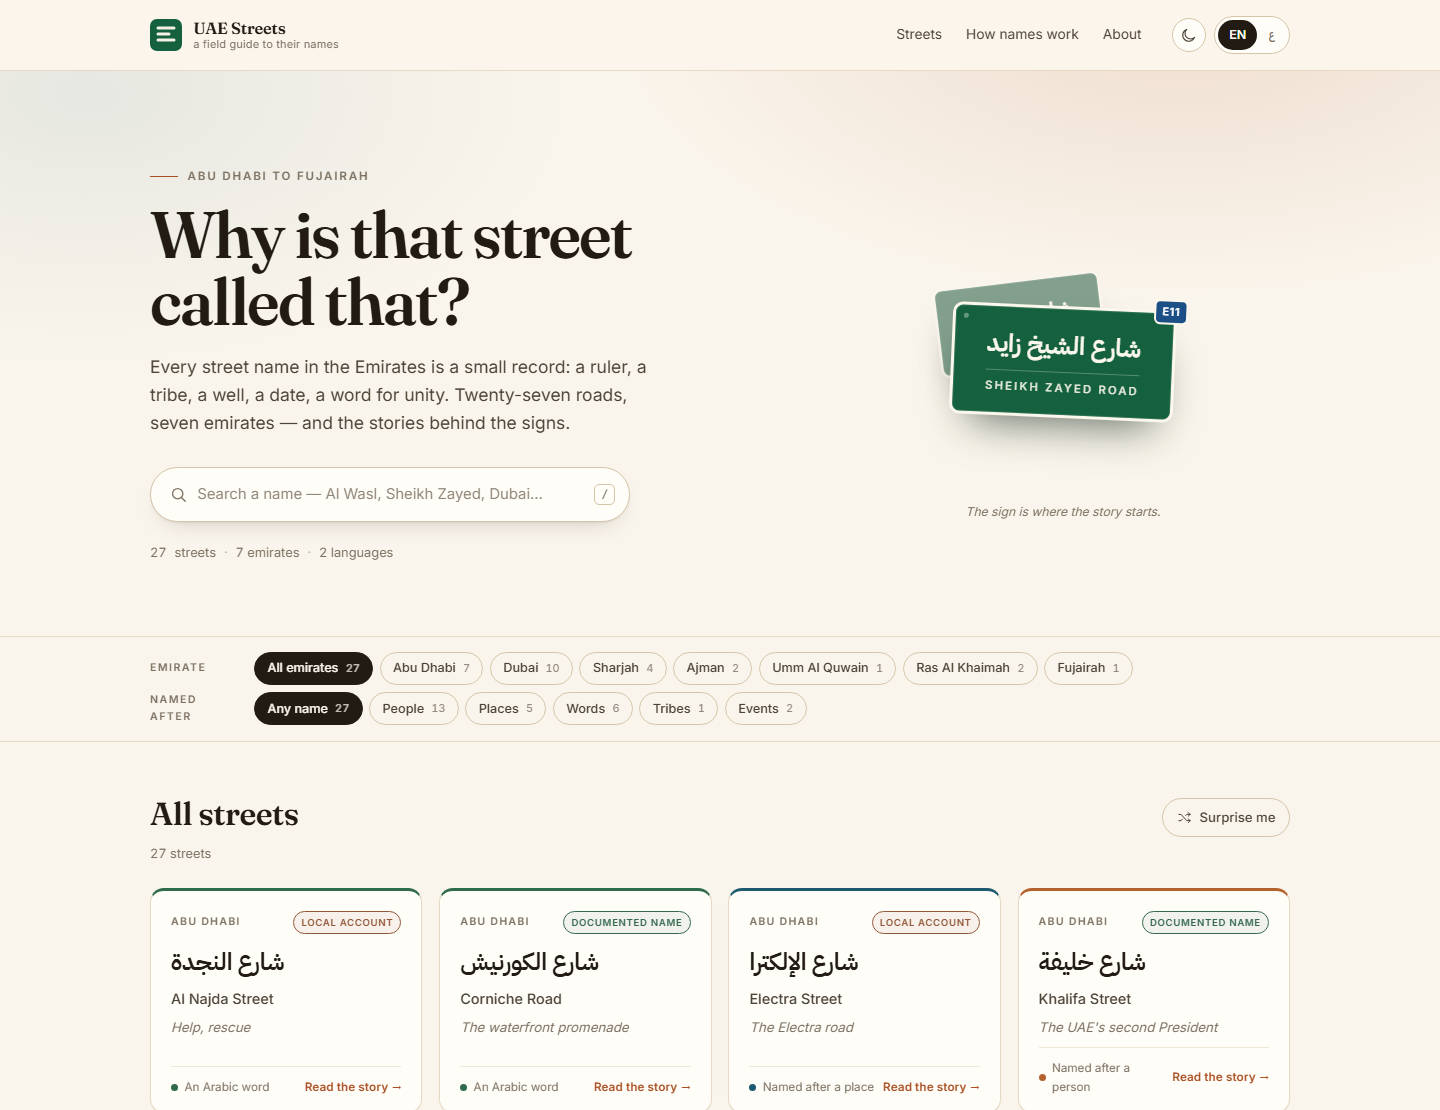
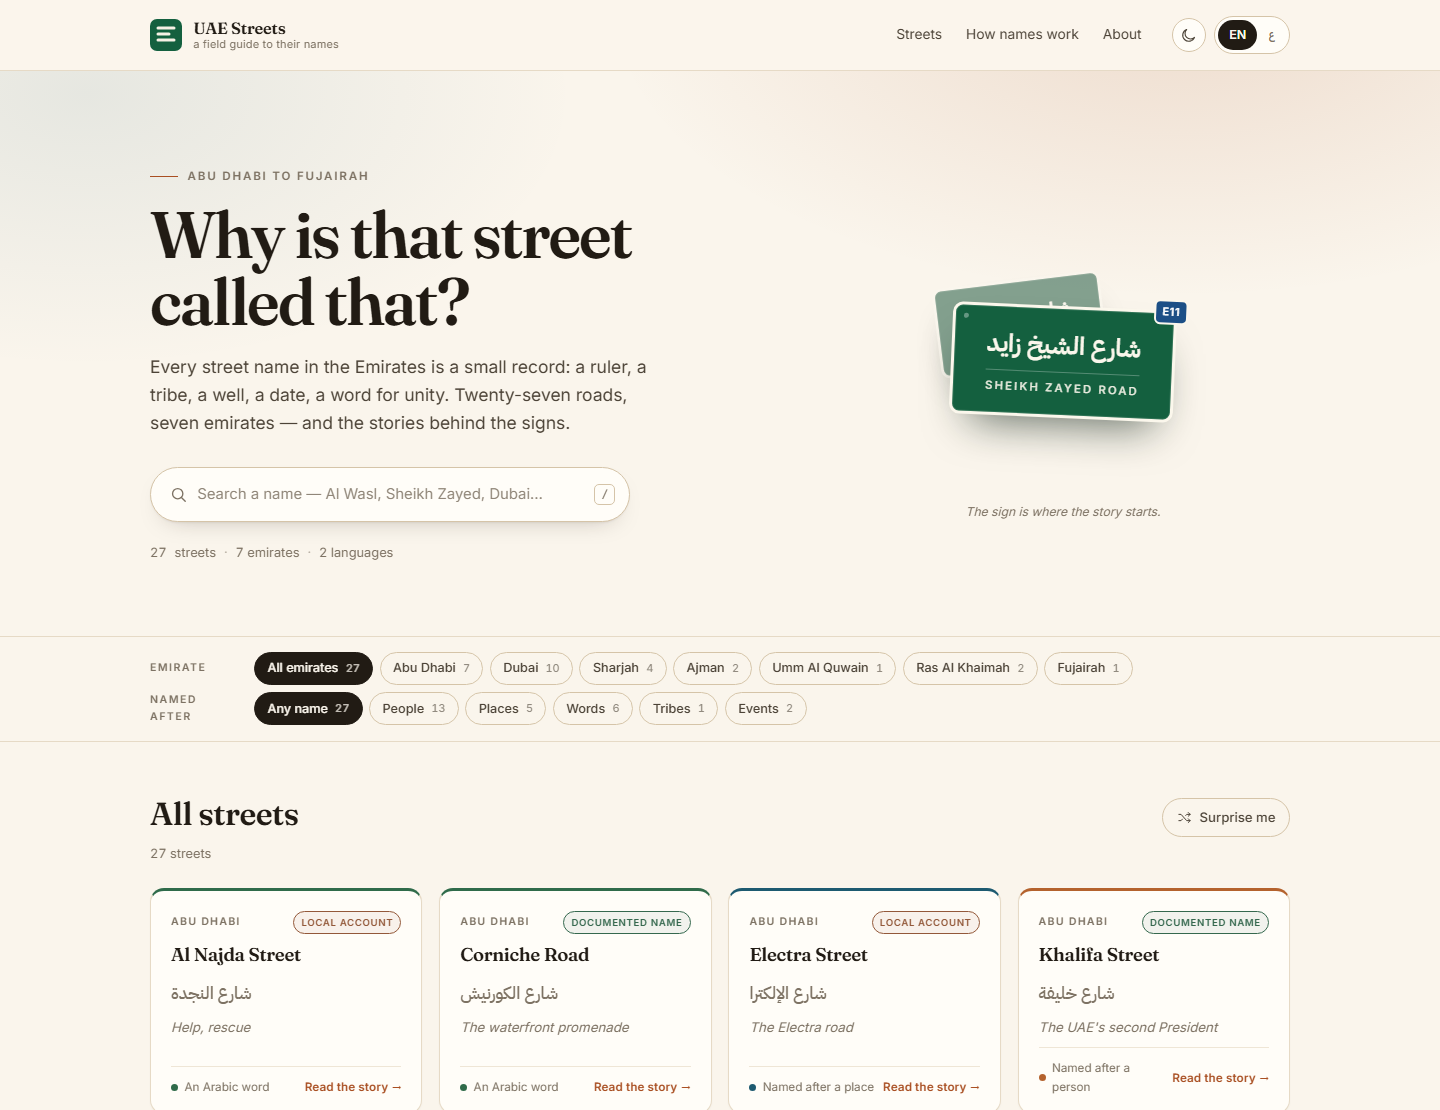
Type hierarchy: English name leads in English mode, Arabic in Arabic mode

diff --git a/assets/css/styles.css b/assets/css/styles.css
@@ -377,12 +377,14 @@ code { font-family: var(--font-mono); font-size: .86em; background: var(--paper-
 .badge--documented { color: var(--palm); background: color-mix(in srgb, var(--palm) 7%, transparent); }
 .badge--local { color: var(--clay); background: color-mix(in srgb, var(--clay) 7%, transparent); }
 
+/* English is the primary line in the default (LTR) layout; Arabic is the
+   supporting line. The two swap roles in Arabic mode — see the ar block. */
+.card__en { font-size: 1.16rem; font-weight: 600; color: var(--ink); line-height: 1.3; }
 .card__ar {
-  font-family: var(--font-ar); font-size: 1.5rem; font-weight: 600;
-  line-height: 1.45; color: var(--ink); direction: rtl; text-align: left;
-  margin-block-start: .15rem;
+  font-family: var(--font-ar); font-size: 1.06rem; font-weight: 500;
+  line-height: 1.65; color: var(--ink-3); direction: rtl; text-align: left;
+  margin-block-start: .3rem;
 }
-.card__en { font-size: .9rem; font-weight: 500; color: var(--ink-2); line-height: 1.35; }
 .card__meaning {
   font-size: .83rem; font-style: italic; color: var(--ink-3);
   display: -webkit-box; -webkit-line-clamp: 2; -webkit-box-orient: vertical; overflow: hidden;
@@ -544,12 +546,13 @@ html[dir="rtl"] .eg-en { text-align: right; }
   font-size: .68rem; font-weight: 600; letter-spacing: .14em; text-transform: uppercase;
   color: var(--ink-3); display: flex; align-items: center; gap: .6rem;
 }
+/* Same hierarchy rule as the cards: English leads in LTR, Arabic leads in RTL. */
+.sheet__en { font-family: var(--font-display); font-size: clamp(1.5rem, 3.4vw, 1.95rem); color: var(--ink); line-height: 1.15; }
 .sheet__ar {
-  font-family: var(--font-ar); direction: rtl; text-align: start;
-  font-size: clamp(1.7rem, 4vw, 2.35rem); font-weight: 600; line-height: 1.45;
-  margin-block: .55rem .2rem;
+  font-family: var(--font-ar); direction: rtl; text-align: left;
+  font-size: 1.2rem; font-weight: 500; line-height: 1.7;
+  color: var(--ink-2); margin-block: .45rem .1rem;
 }
-.sheet__en { font-family: var(--font-display); font-size: clamp(1.1rem, 2.2vw, 1.35rem); color: var(--ink-2); line-height: 1.3; }
 .sheet__translit { font-size: .82rem; color: var(--ink-3); font-style: italic; margin-block-start: .35rem; }
 
 .sheet__tags { display: flex; gap: .4rem; flex-wrap: wrap; margin-block-start: 1rem; }
@@ -616,6 +619,24 @@ html[lang="ar"] .search input { font-size: .95rem; }
 html[lang="ar"] .patterns li h3 { font-size: 1.28rem; }
 html[lang="ar"] .footer p { max-width: 40ch; }
 html[lang="ar"] .sheet__story p { line-height: 2; }
+
+/* In Arabic mode the hierarchy flips back: the Arabic name leads, the Latin
+   name becomes the supporting line. */
+html[lang="ar"] .card__ar {
+  font-size: 1.5rem; font-weight: 600; color: var(--ink);
+  line-height: 1.45; margin-block-start: 0;
+}
+html[lang="ar"] .card__en {
+  font-size: .88rem; font-weight: 500; color: var(--ink-3); line-height: 1.35;
+}
+html[lang="ar"] .sheet__ar {
+  text-align: start; font-size: clamp(1.7rem, 4vw, 2.35rem);
+  font-weight: 600; color: var(--ink); line-height: 1.45;
+  margin-block: .55rem .2rem;
+}
+html[lang="ar"] .sheet__en {
+  font-size: clamp(1.1rem, 2.2vw, 1.35rem); color: var(--ink-2); line-height: 1.3;
+}
 
 /* Latin strings inside the Arabic layout: keep the internal order LTR
    (so "2 December Street" never loses its number) but align to the same

diff --git a/assets/js/app.js b/assets/js/app.js
@@ -221,16 +221,21 @@
       var cat = categoryOf(s.category);
       var meaning = s.meaning ? s.meaning[state.lang] : "";
       var originLabel = s.origin === "local" ? T.originLocal : T.originDocumented;
+      // The name in the reader's own language is the heading and comes first.
+      var nameBlock = state.lang === "ar"
+        ? '<h3 class="card__ar" lang="ar" dir="rtl">' + esc(s.ar) + "</h3>" +
+          '<p class="card__en" dir="ltr">' + esc(s.en) + "</p>"
+        : '<h3 class="card__en" dir="ltr">' + esc(s.en) + "</h3>" +
+          '<p class="card__ar" lang="ar" dir="rtl">' + esc(s.ar) + "</p>";
       return (
         '<a class="card" href="#street=' + esc(s.id) + '" data-id="' + esc(s.id) + '" ' +
           'style="--cat:' + cat.color + ';--i:' + Math.min(i, 14) + '" ' +
-          'aria-label="' + esc(s.en + " — " + em[state.lang]) + '">' +
+          'aria-label="' + esc((state.lang === "ar" ? s.ar : s.en) + " — " + em[state.lang]) + '">' +
           '<div class="card__top">' +
             '<span class="card__emirate">' + esc(em[state.lang]) + "</span>" +
             '<span class="badge badge--' + (s.origin === "local" ? "local" : "documented") + '">' + esc(originLabel) + "</span>" +
           "</div>" +
-          '<h3 class="card__ar" lang="ar" dir="rtl">' + esc(s.ar) + "</h3>" +
-          '<p class="card__en" dir="ltr">' + esc(s.en) + "</p>" +
+          nameBlock +
           (meaning ? '<p class="card__meaning">' + esc(meaning) + "</p>" : "") +
           '<div class="card__foot">' +
             '<span class="card__tag">' + esc(T.categoryNoun[s.category] || cat[state.lang]) + "</span>" +
@@ -322,11 +327,17 @@
     var meaning = s.meaning ? (s.meaning[state.lang] || s.meaning.en) : "";
     var isLocal = s.origin === "local";
 
+    // Same rule as the cards: the reader's language is the heading, and first.
+    var titleBlock = state.lang === "ar"
+      ? '<h2 class="sheet__ar" id="sheet-title" lang="ar" dir="rtl">' + esc(s.ar) + "</h2>" +
+        '<p class="sheet__en" dir="ltr">' + esc(s.en) + "</p>"
+      : '<h2 class="sheet__en" id="sheet-title" dir="ltr">' + esc(s.en) + "</h2>" +
+        '<p class="sheet__ar" lang="ar" dir="rtl">' + esc(s.ar) + "</p>";
+
     body.innerHTML =
       '<div class="sheet__head">' +
         '<p class="sheet__emirate">' + esc(em[state.lang]) + " · " + esc(cat[state.lang]) + "</p>" +
-        '<h2 class="sheet__ar" id="sheet-title" lang="ar" dir="rtl">' + esc(s.ar) + "</h2>" +
-        '<p class="sheet__en" dir="ltr">' + esc(s.en) + "</p>" +
+        titleBlock +
         (s.translit ? '<p class="sheet__translit" dir="ltr">' + esc(s.translit) + "</p>" : "") +
         '<div class="sheet__tags">' +
           '<span class="sheet__tag">' + esc(T.categoryNoun[s.category] || "") + "</span>" +
